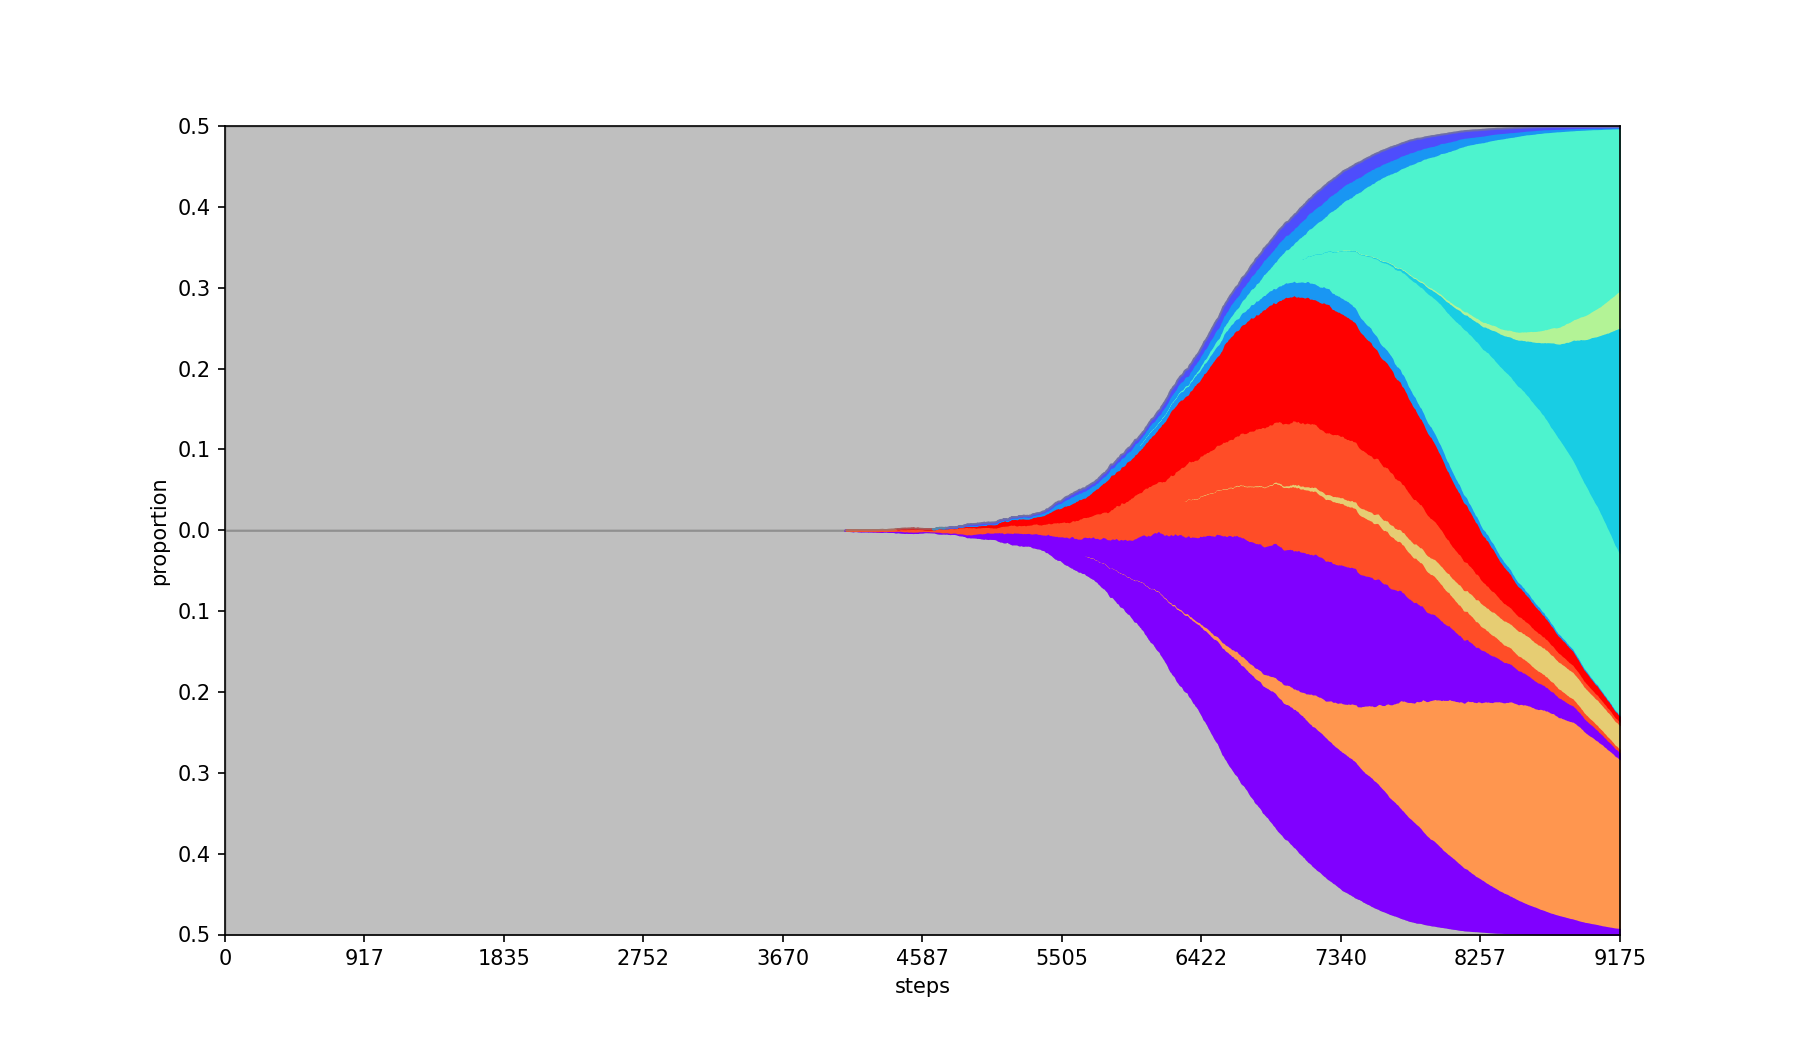
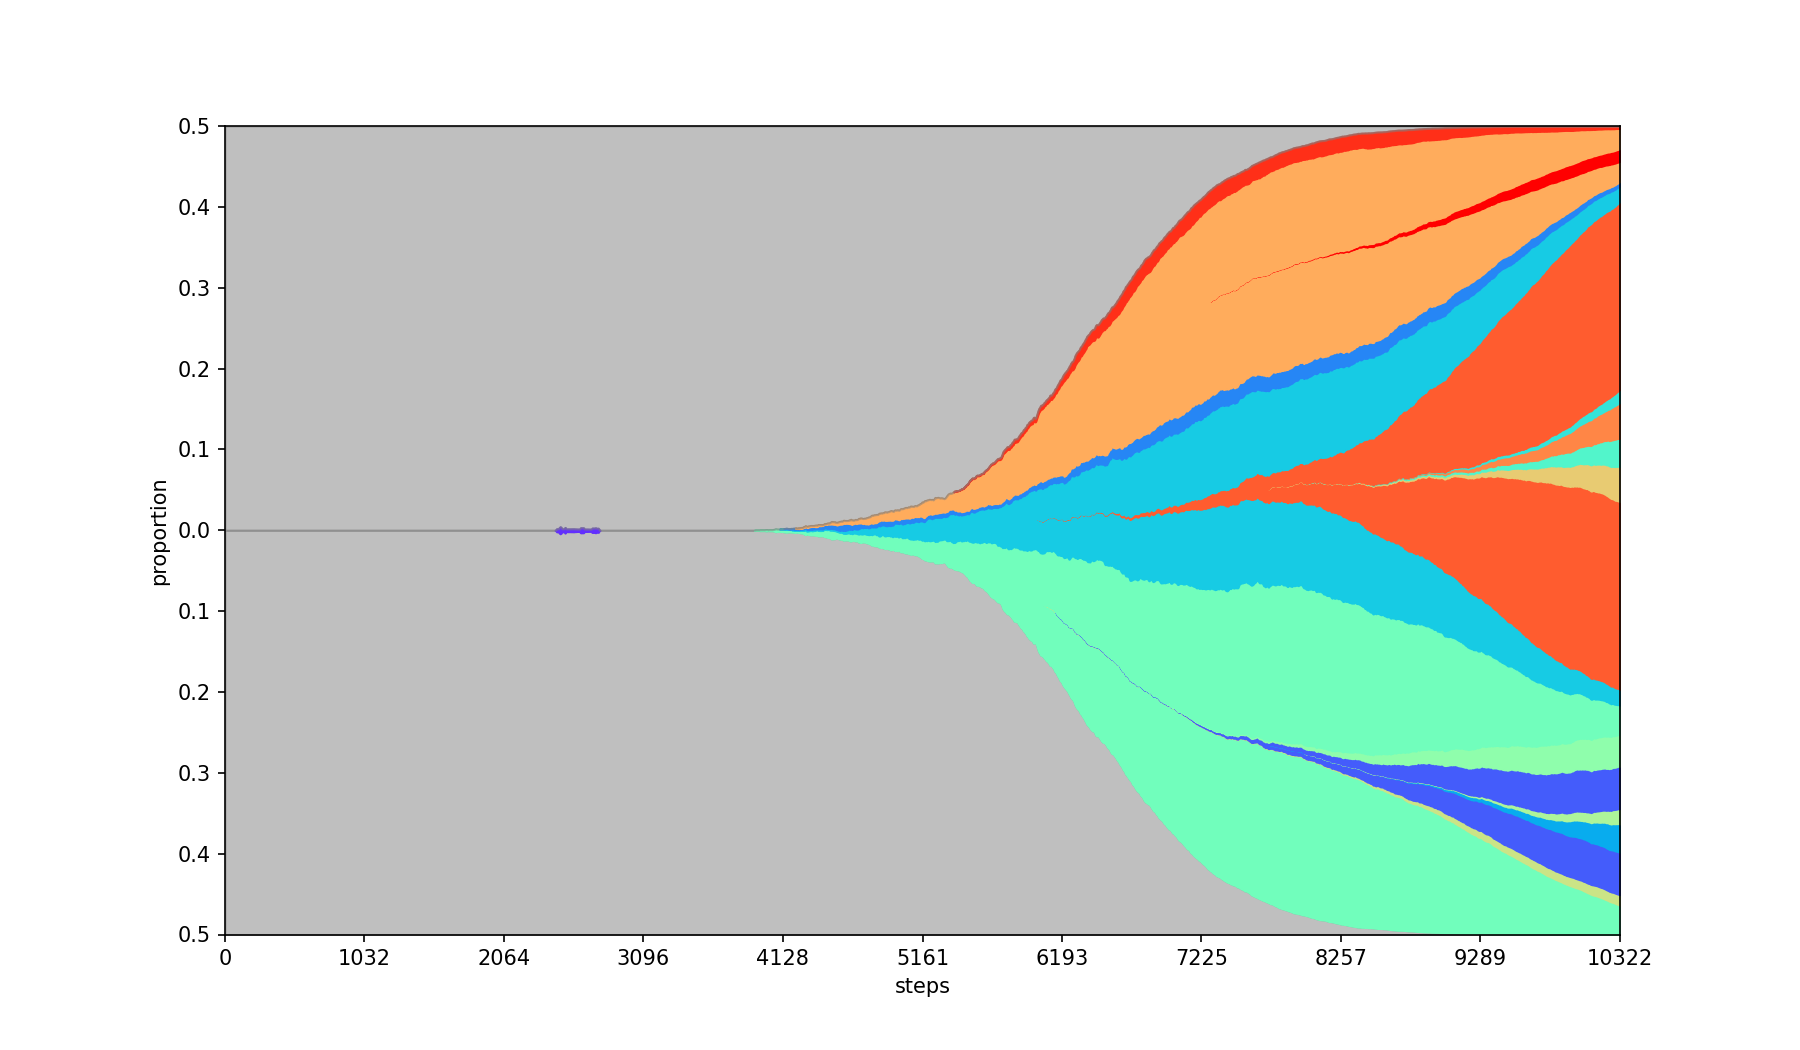
updated the readme.

diff --git a/README.MD b/README.MD
@@ -1,10 +1,10 @@
-# SMITH 2022: Stochastic Model of Intra-Tumor Heterogeneity (Article Version)
+# SMITH: Stochastic Model of Intra-Tumor Heterogeneity
 
 SMITH is a tool for fast stochastic simulation of evolution of subclones within a solid tumor. 
 
 We use a confined, well-mixed, branching model of cell populations.
 
-The tool runs large-scale simulations (typically ~billion, but larger orders are also possible) and allows for fast evaluation across multiple executions.
+The tool runs large-scale simulations (typically ~billion, but larger orders are also possible with the limitation of 2^31 per clone) and allows for fast evaluation across multiple executions.
 
 ## Requirements
 
@@ -66,31 +66,35 @@ Use `dotnet run -- [options]` to specify any of the following:
 The following parameter values can be set in the configuration file:
 
 ### Simulation options
- * `FitnessAcc: [0,1,2]` The fitness accumulation across all mutations. Either multiplicative (0), additive (1), or limited multiplicative (2).
+ * `FitnessAcc: [0,1,2]` The fitness accumulation across all mutations. Either multiplicative (0), additive (1), or asymptotic with the max value of 10 (2).
  * `FitnessDist: [0,1,2,3]` The fitness of a mutation is sampled from a distribution. Either constant (0), normal (1), exponential (2), or uniform (3).
- * `FitnessEffect: [0,1,2]` The effect of mutation on the fitness of the clone. Either birth (0), death (1), , or both (2).
+ * `FitnessEffect: [0,1,2]` The effect of mutation on the fitness of the clone. Either birth (0), death (1), or both (2).
  * `Seed: int` The random seed for the simulation.
+
+ ### Model
+* `Turnover: [0.0-1.0]`  The fraction of cells dividing per step (should be considerably smaller than 1).
+* `MutationProb: [0.0-1.0]` The probability of a mutation per cell division.
+* `FitnessMean: [0.0-1.0]` The mean fitness increase per mutation.
+* `ConfGlobal: [0.0-1.0]` The global confinement of the population - the higher the confinement the stronger the competition between clones.
+* `ConfLocal: [0.0-1.0]` The local confinement of the population - the higher the confinement the stronger the restriction of the population of each clone.
+
+ ### Initialization
+* `StartMut: uint` The number of mutation of the cells in the first clone at the start.
+* `StartPop: uint` The number of cells in the the first clone at the start.
 
 ### Control variables
 * `MinPop: uint` The simulation resets if the population dies out before reaching this number.
 * `MaxPop: uint` The simulation stops at (or after) this population.
-* `MaxSteps: uint` The simulation stops at this step.
-* `MaxClones: uint` The simulation stops at this number of clones.
+* `MaxSteps: int` The simulation stops at this step. -1 means no limit.
+* `MaxClones: int` The simulation stops at this number of clones. -1 means no limit.
+* `MaxTries: int` The simulation stops if it fails to finish after this number of tries. -1 means no limit.
 * `Reps: uint` How many times the simulation runs.
 
 ### Output
 * `CutOff: [0.0-1.0]` Only clones with the following fraction are considered in analysis (ignores microclones).
 * `CloneSample: int` The number of clones to sample from the population, the clones are sorted by size in descending order, then first `CloneSample` clones are selected. This is ingored if the value is negative.
+* `FishFrac: [0.0-1.0]` Similar to `CutOff`, but used for Fish Plots.
 
-### Model
-* `Turnover: [0.0-1.0]`  The fraction of cells dividing per step (should be considerably smaller than 1).
-* `MutationProb: [0.0-1.0]` The probability of a mutation per cell division.
-* `FitnessMean: [0.0-1.0]` The mean fitness increase per mutation.
-* `Confinement: [0.0-1.0]` The higher the confinement the stronger the competition between clones.
-
-### Initialization
-* `StartMut: uint` The number of mutation of the cells in the first clone at the start.
-* `StartPop: uint` The number of cells in the the first clone at the start.
 
 ## Test
 
@@ -108,6 +112,10 @@ To reproduce the results run `dotnet run -- -C ./doc/doc_config.json`.
 
 The text files are primariliy used as source for plots shown below.
 
+#### `ccf.csv`
+Cancer cell fraction in the format `clone, population, ccf`.
+
+
 #### `parent_tree.csv` 
 
 Describes the parent-child relationship between subclones. Used for plotting of Fish Plots. For details see [PyFish repository](https://bitbucket.org/schwarzlab/pyfish/).
@@ -120,9 +128,14 @@ Lists population sizes at individual timepoints for each subclone.  Used for plo
 
 Statistical / analytical eveluation of the simulation at individual stops. If checkpoints are used, log2 sizes are considered as stops, starting from the minimum size. Otherwise only one output at the end of the simulation is printed.
 
-#### `parent_graph.dot`
+#### `parent_tree.dot`
 
-An evolutionary tree with mutation distances and population sizes between the individual subclones. The graph is written in the [DOT language](https://graphviz.org/doc/info/lang.html).
+An evolutionary tree with mutation distances and population sizes between the individual subclones. The graph is written in the [DOT format](https://graphviz.org/doc/info/lang.html).
+
+
+#### `parent_tree.new`
+
+Same as `parent_tree.dot`, but in the [Newick format](https://en.wikipedia.org/wiki/Newick_format)
 
 #### `sim_params.json` 
 
@@ -139,22 +152,17 @@ Fish plots generated using the [PyFish package](https://bitbucket.org/schwarzlab
 
 | relative plot (population sizes compared to each other) | absolute plot (population sizes compared to the final sample) |
 |---------------------------------------------------------|---------------------------------------------------------------|
-| ![CCF](./doc/img/fish.png)                              | ![CCF](./doc/img/fish_abs.png)                                |
+| ![](./doc/img/fish.png)                              | ![](./doc/img/fish_abs.png)                                |
 
-#### `metrics_relationships.png`
-Plot the pairwise relationship between every pair of metrics present in `summary.csv` as well as their indiviudal distributions. This is usually used in the initial assesment of the simulation as a quick overview of the values produced.
-
-![CCF](./doc/img/metrics_relationships.png)
-
-#### `parent_graph.png` 
+#### `clone_tree.png` 
 An evolutionary tree describing the individual sampled clones and their total population (labelled nodes), together with their evolutionary distance from the parent (labelled edges).
 
-![CCF](./doc/img/parent_graph.png)
+![](./doc/img/clone_tree.png)
 
-## Figures for Streck et al. 2022
-The main and supplementary figures for the 2022 publication (Streck, Kaufmann and Schwarz) are created using the notebooks in the `smith/notebooks` directory.
+## Figures for Streck et al. 2023
+The main and supplementary figures for the 2023 publication (Streck, Kaufmann and Schwarz) are created using the notebooks in the `article_figures` directory.
 
-Most plotting data is provided in `smith/notebooks/data` and was created from raw data using `smith/notebooks/scripts/create_plotting_data_from_raw.py`.
+Most plotting data is provided in `article_figures/data` and was created from raw data using `article_figures/scripts/create_plotting_data_from_raw.py`.
 
 The exception are the plotting data for the fish plots and individual trajectories which were excluded due to size restrictions (>100MB). The raw fish data for these simulation runs can be generated using the smith config files found in `smith/notebooks/data/fish_plot_configs` and `smith/notebooks/data/trajectories_configs`.
 
